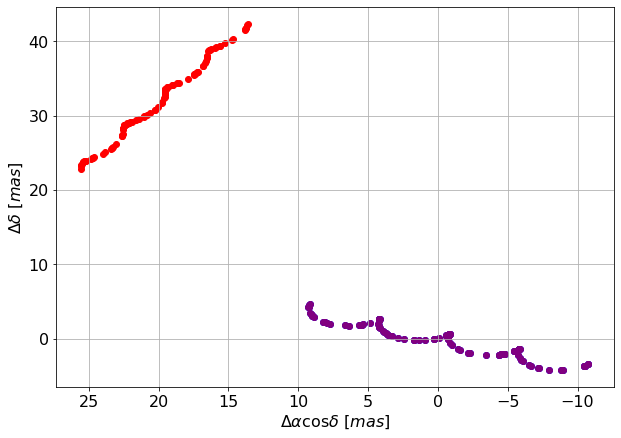
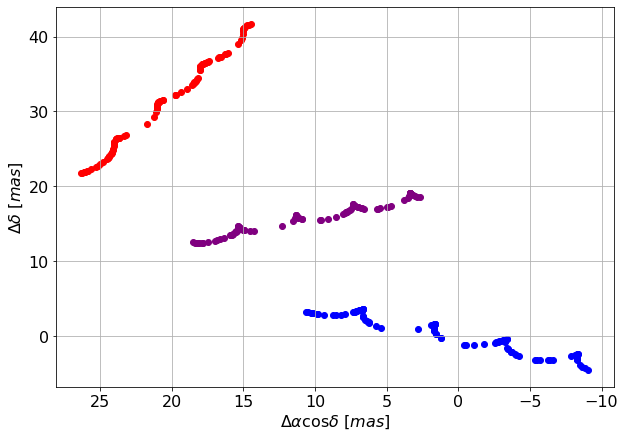
update in docs - corrected plots

diff --git a/docs/blending.rst b/docs/blending.rst
@@ -108,30 +108,29 @@ giving:
 
 ::
 
-
-  {'vis_periods': 76,
+  {'vis_periods': 78,
    'n_obs': 100,
-   'drac': -0.011301807524057274,
-   'drac_error': 0.009379378872654694,
-   'ddec': -0.008445686465413424,
-   'ddec_error': 0.009369235193269565,
-   'drac_ddec_corr': -0.0003427894371779837,
-   'parallax': 0.9997128245637159,
-   'parallax_error': 0.010471455252530619,
-   'drac_parallax_corr': -0.047061086997833415,
-   'ddec_parallax_corr': 0.007283925192670643,
-   'pmrac': -4.99922955451988,
-   'pmrac_error': 0.008692598376007978,
-   'drac_pmrac_corr': 0.002506295616405202,
-   'ddec_pmrac_corr': 0.001323711477409411,
-   'parallax_pmrac_corr': 0.18173051512684107,
-   'pmdec': -2.007956151982878,
-   'pmdec_error': 0.008549309567347953,
-   'drac_pmdec_corr': -0.0008688384482675892,
-   'ddec_pmdec_corr': 0.011390727416808143,
-   'parallax_pmdec_corr': 0.018461929030827284,
-   'pmrac_pmdec_corr': 0.003355095873007425,
-   'UWE': 0.93683928518927,
+   'drac': 10.01454303242342,
+   'drac_error': 0.010547596346689378,
+   'ddec': 15.976753022174634,
+   'ddec_error': 0.010519452499717329,
+   'drac_ddec_corr': 0.0027540145652614947,
+   'parallax': 0.7568178159852933,
+   'parallax_error': 0.011613829666341209,
+   'drac_parallax_corr': -0.08057029092578415,
+   'ddec_parallax_corr': -0.03418151447160969,
+   'pmrac': -3.9944613114700074,
+   'pmrac_error': 0.0085348175673892,
+   'drac_pmrac_corr': 0.11816129746211182,
+   'ddec_pmrac_corr': 0.004540923741403878,
+   'parallax_pmrac_corr': -0.13284735365296507,
+   'pmdec': 1.507456250273282,
+   'pmdec_error': 0.008494091221675519,
+   'drac_pmdec_corr': 0.00729850206584718,
+   'ddec_pmdec_corr': 0.1113581941035537,
+   'parallax_pmdec_corr': -0.09058552453993324,
+   'pmrac_pmdec_corr': 0.012034047214395856,
+   'UWE': 1.0450926631191217,
    'ra_ref': 160,
    'dec_ref': -50}
 
@@ -237,29 +236,29 @@ Now, just like before, we create some mock observations and fit them:
 
 ::
 
-  {'vis_periods': 76,
+  {'vis_periods': 78,
    'n_obs': 100,
-   'drac': -1.1145417529527182,
-   'drac_error': 0.04879876647291026,
-   'ddec': -0.9101537815632521,
-   'ddec_error': 0.04874599122540063,
-   'drac_ddec_corr': -0.0003427894371779837,
-   'parallax': 0.9885124526381458,
-   'parallax_error': 0.05448059049939434,
-   'drac_parallax_corr': -0.04706108699783342,
-   'ddec_parallax_corr': 0.007283925192670642,
-   'pmrac': -4.873420169765144,
-   'pmrac_error': 0.04522560437667363,
-   'drac_pmrac_corr': 0.002506295616405203,
-   'ddec_pmrac_corr': 0.0013237114774094108,
-   'parallax_pmrac_corr': 0.18173051512684105,
-   'pmdec': -1.9090501481976523,
-   'pmdec_error': 0.044480105425525815,
-   'drac_pmdec_corr': -0.0008688384482675892,
-   'ddec_pmdec_corr': 0.011390727416808145,
-   'parallax_pmdec_corr': 0.018461929030827284,
-   'pmrac_pmdec_corr': 0.003355095873007425,
-   'UWE': 4.874160871556728,
+   'drac': -1.0506765305265284,
+   'drac_error': 0.052202456693277374,
+   'ddec': -0.865301284730357,
+   'ddec_error': 0.05206316638442878,
+   'drac_ddec_corr': 0.0027540145652614947,
+   'parallax': 1.029741008326703,
+   'parallax_error': 0.05747948824288956,
+   'drac_parallax_corr': -0.08057029092578415,
+   'ddec_parallax_corr': -0.0341815144716097,
+   'pmrac': -5.012751293992229,
+   'pmrac_error': 0.042240756073918286,
+   'drac_pmrac_corr': 0.1181612974621118,
+   'ddec_pmrac_corr': 0.004540923741403877,
+   'parallax_pmrac_corr': -0.13284735365296504,
+   'pmdec': -2.0450347197306935,
+   'pmdec_error': 0.042039192112944254,
+   'drac_pmdec_corr': 0.00729850206584718,
+   'ddec_pmdec_corr': 0.11135819410355369,
+   'parallax_pmdec_corr': -0.09058552453993322,
+   'pmrac_pmdec_corr': 0.012034047214395854,
+   'UWE': 5.172401625329712,
    'ra_ref': 160,
    'dec_ref': -50}
 
@@ -271,29 +270,29 @@ Now, just like before, we create some mock observations and fit them:
 
 ::
 
-  {'vis_periods': 76,
+  {'vis_periods': 78,
    'n_obs': 100,
-   'drac': 9.439019210786634,
-   'drac_error': 0.0257628310498575,
-   'ddec': 15.550478483757178,
-   'ddec_error': 0.02573496887457158,
-   'drac_ddec_corr': -0.00034278943717798373,
-   'parallax': 0.7222986296307579,
-   'parallax_error': 0.028762494423123102,
-   'drac_parallax_corr': -0.04706108699783342,
-   'ddec_parallax_corr': 0.007283925192670642,
-   'pmrac': -3.951556036533039,
-   'pmrac_error': 0.023876415100179727,
-   'drac_pmrac_corr': 0.0025062956164052025,
-   'ddec_pmrac_corr': 0.0013237114774094108,
-   'parallax_pmrac_corr': 0.18173051512684105,
-   'pmdec': 1.542328450901017,
-   'pmdec_error': 0.02348283622689142,
-   'drac_pmdec_corr': -0.0008688384482675893,
-   'ddec_pmdec_corr': 0.011390727416808143,
-   'parallax_pmdec_corr': 0.018461929030827284,
-   'pmrac_pmdec_corr': 0.0033550958730074244,
-   'UWE': 2.5732655171407104,
+   'drac': 9.465541639169418,
+   'drac_error': 0.0314699914789254,
+   'ddec': 15.444689659418092,
+   'ddec_error': 0.031386021008755434,
+   'drac_ddec_corr': 0.0027540145652614947,
+   'parallax': 0.789246637698297,
+   'parallax_error': 0.034651223712421075,
+   'drac_parallax_corr': -0.08057029092578416,
+   'ddec_parallax_corr': -0.03418151447160969,
+   'pmrac': -4.014075917693189,
+   'pmrac_error': 0.025464629787830737,
+   'drac_pmrac_corr': 0.11816129746211179,
+   'ddec_pmrac_corr': 0.004540923741403877,
+   'parallax_pmrac_corr': -0.13284735365296507,
+   'pmdec': 1.4960944931578928,
+   'pmdec_error': 0.025343117956087232,
+   'drac_pmdec_corr': 0.007298502065847179,
+   'ddec_pmdec_corr': 0.11135819410355369,
+   'parallax_pmdec_corr': -0.09058552453993322,
+   'pmrac_pmdec_corr': 0.012034047214395856,
+   'UWE': 3.118156603837922,
    'ra_ref': 160,
    'dec_ref': -50}
 
@@ -345,7 +344,7 @@ Now, just like before, we create some mock observations and fit them:
   ax.invert_xaxis()
   plt.show()
 
-.. image:: plots/blendingBinaryFit.png
+.. image:: plots/blendingBinaryFits.png
   :width: 400
   :alt: fit to the blended track
 
